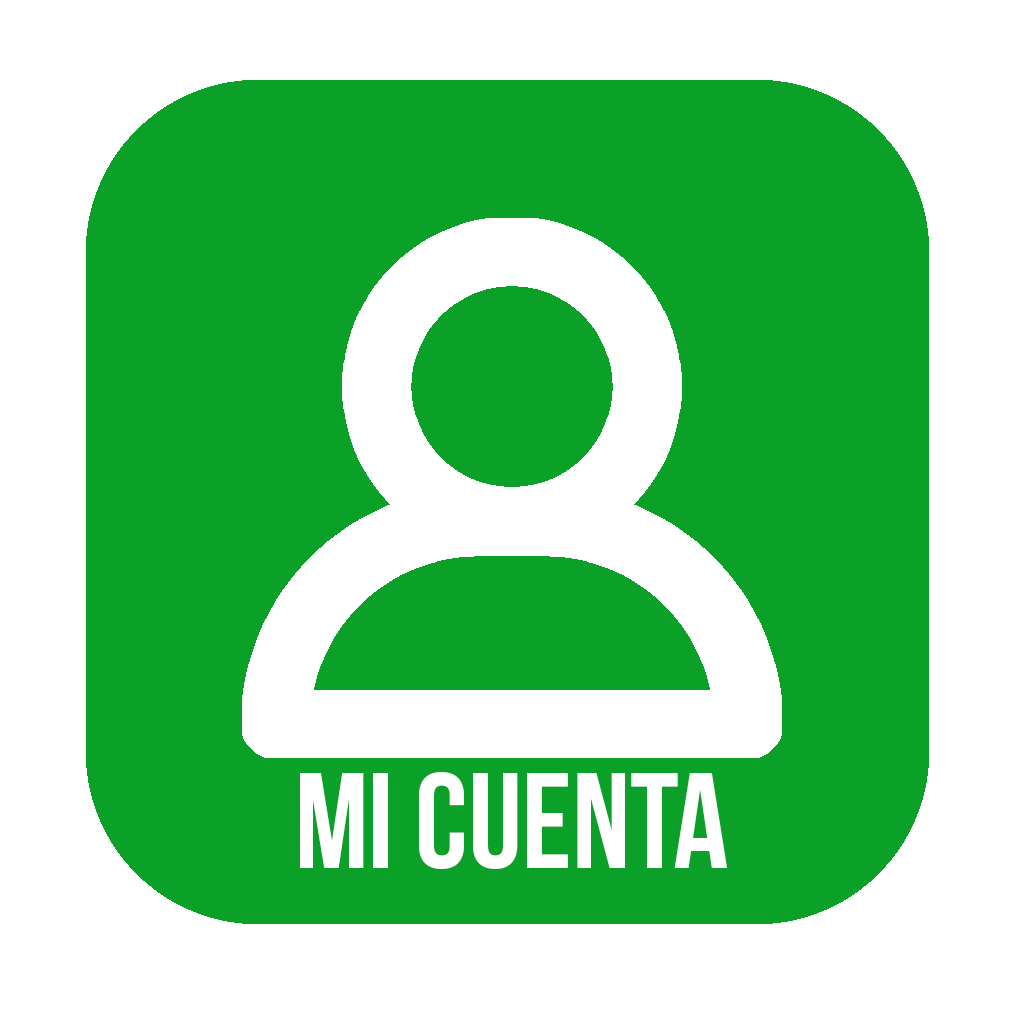
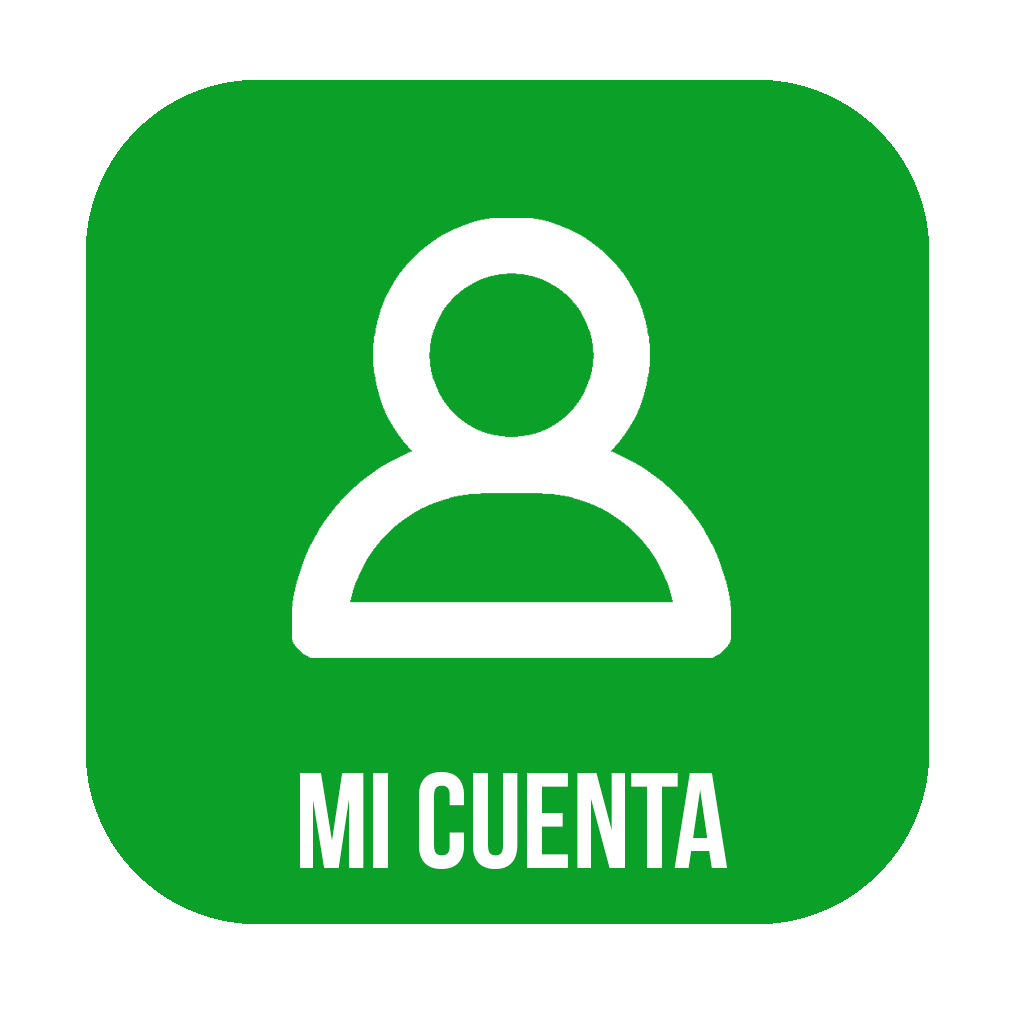
Cambios Varios
Se cambian los iconos,
Se agrega lista desplegable con info de API

diff --git a/fastmail_flutter/lib/src/pages/cotizadorPoBox_page.dart b/fastmail_flutter/lib/src/pages/cotizadorPoBox_page.dart
@@ -1,4 +1,7 @@
 import 'package:flutter/material.dart';
+import 'package:http/http.dart' as http;
+import 'dart:convert';
+import 'dart:async';
 
 class CotizadorPage extends StatefulWidget {
   @override
@@ -14,6 +17,7 @@ class __CotizadorPageState extends State<CotizadorPage> {
   void initState() {
     isPasswordVisible = false;
     isConfirmPasswordVisible = false;
+    loadarticulos(); //AQUI se carga la lista desplegable
     super.initState();
   }
 
@@ -28,32 +32,6 @@ class __CotizadorPageState extends State<CotizadorPage> {
         elevation: 0,
         //leading: Icon(Icons.menu),
         title: Text("Cotizador"),
-      ),
-      drawer: new Drawer(
-        child: new ListView(
-          padding: const EdgeInsets.all(0.0),
-          children: <Widget>[
-            new UserAccountsDrawerHeader(
-                accountName: new Text("Webyte"),
-                accountEmail: new Text("hola@webyte,com.gt"),
-                currentAccountPicture: new CircleAvatar(
-                  backgroundColor: Colors.red,
-                )),
-            new ListTile(
-              title: new Text('Mis Paquetes'),
-              trailing: new Icon(Icons.send),
-            ),
-            new ListTile(
-              title: new Text('Perfil'),
-              trailing: new Icon(Icons.person),
-            ),
-            new ListTile(
-              title: new Text('Versión'),
-              trailing: new Icon(Icons.close),
-              onTap: () => Navigator.of(context).pop(),
-            )
-          ],
-        ),
       ),
       body: SingleChildScrollView(
         child: Padding(
@@ -92,10 +70,6 @@ class __CotizadorPageState extends State<CotizadorPage> {
   }
 
   Widget getWidgetRegistrationCard() {
-    final FocusNode _passwordEmail = FocusNode();
-    final FocusNode _passwordFocus = FocusNode();
-    final FocusNode _passwordConfirmFocus = FocusNode();
-
     return Padding(
       padding: const EdgeInsets.only(left: 16.0, right: 16.0),
       child: Card(
@@ -117,7 +91,7 @@ class __CotizadorPageState extends State<CotizadorPage> {
                     'Cotizar',
                     style: TextStyle(fontSize: 18.0, color: Colors.black),
                   ),
-                ), // title: login
+                ),
                 _crearTipoArticulo(),
                 _crearValor(),
                 _crearPeso(),
@@ -132,23 +106,90 @@ class __CotizadorPageState extends State<CotizadorPage> {
   }
 
   Widget _crearTipoArticulo() {
+    //INICIO LISTA DESPLEGABLE
     return Container(
-      child: TextFormField(
-        //   controller: _textEditApellido,
-        // focusNode: _crearApellido,
-        keyboardType: TextInputType.text,
-        textInputAction: TextInputAction.next,
-        validator: _validateEmpty,
-        onFieldSubmitted: (String value) {
-          //  FocusScope.of(context).requestFocus(_passwordFocus);
-        },
-        decoration: InputDecoration(
-            labelText: 'Tipo de Artículo',
-            //prefixIcon: Icon(Icons.email),
-            icon: Icon(Icons.card_giftcard_outlined)),
+      padding: EdgeInsets.only(left: 15, right: 15, top: 5),
+      color: Colors.white,
+      child: Row(
+        mainAxisAlignment: MainAxisAlignment.spaceBetween,
+        children: <Widget>[
+          Expanded(
+            child: DropdownButtonHideUnderline(
+              child: ButtonTheme(
+                alignedDropdown: true,
+                child: DropdownButton<String>(
+                  isExpanded: true,
+                  value: _myState,
+                  icon: const Icon(Icons.arrow_downward),
+                  iconSize: 24,
+                  style: TextStyle(
+                    color: Colors.black54,
+                    fontSize: 16,
+                  ),
+                  hint: Text('Seleccionar tipo de artículo'),
+                  onChanged: (String newValue) {
+                    setState(() {
+                      _myState = newValue;
+                      loadarticulos();
+                      print(_myState);
+                    });
+                  },
+                  items: statesList?.map((item) {
+                        return new DropdownMenuItem(
+                          child: new Text(item['name']),
+                          value: item['id'].toString(),
+                        );
+                      })?.toList() ??
+                      [],
+                ),
+              ),
+            ),
+          ),
+        ],
       ),
-    ); //text field: email
+    );
+    //FIN LISTA DESPLEGABLE
   }
+
+  List statesList;
+  String _myState;
+
+  Future<String> loadarticulos() async {
+    var url = 'https://webyte.com.gt/projects/apps/fastmail/executequerys.php';
+    final response = await http.post(url,
+        headers: <String, String>{"Accept": "application/json"},
+        body: {"identificador": "ARTICULOS"});
+    //print(response.statusCode);
+    if (response.statusCode == 200) {
+      //print('resultValidLogin Response: ${response.body}');
+      dynamic data1 = jsonDecode(response.body);
+      //print(data1.toString());
+      setState(() {
+        statesList = data1;
+      });
+    } else {
+      //showAlertDialog(context, "¡Ocurrió un error al obtener datos!");
+      //throw Exception('Failed to get data');
+    }
+  }
+
+  // return Container(
+  //   child: TextFormField(
+  //     //   controller: _textEditApellido,
+  //     // focusNode: _crearApellido,
+  //     keyboardType: TextInputType.text,
+  //     textInputAction: TextInputAction.next,
+  //     validator: _validateEmpty,
+  //     onFieldSubmitted: (String value) {
+  //       //  FocusScope.of(context).requestFocus(_passwordFocus);
+  //     },
+  //     decoration: InputDecoration(
+  //         labelText: 'Tipo de Artículo',
+  //         //prefixIcon: Icon(Icons.email),
+  //         icon: Icon(Icons.card_giftcard_outlined)),
+  //   ),
+  // ); //text field: email
+  //}
 
   Widget _crearValor() {
     return Container(
@@ -222,7 +263,7 @@ class __CotizadorPageState extends State<CotizadorPage> {
         ),
         onPressed: () {
           // if (_keyValidationForm.currentState.validate()) {
-          _onTappedButtonRegister();
+          _onTappedButtonCotizar();
           //  }
         },
         shape:
@@ -254,5 +295,31 @@ class __CotizadorPageState extends State<CotizadorPage> {
     return value.length < 5 ? 'Min 5 char required' : null;
   }
 
-  void _onTappedButtonRegister() {}
+  Future<String> _onTappedButtonCotizar() async {
+    var url = 'https://webyte.com.gt/projects/apps/fastmail/executequerys.php';
+    final response = await http.post(url, headers: <String, String>{
+      "Accept": "application/json"
+    }, body: {
+      "identificador": "COTIZAR",
+      "codpais": "502",
+      "codarticulo": "1",
+      "articulo": "-",
+      "valor": "108",
+      "peso": "1",
+      "destino": "Ciudad Capital",
+      "tipocliente": "Fastmail"
+    });
+    //print(response.statusCode);
+    if (response.statusCode == 200) {
+      //print('resultValidLogin Response: ${response.body}');
+      dynamic data1 = jsonDecode(response.body);
+      print(data1.toString());
+      // setState(() {
+      //   statesList = data1;
+      // });
+    } else {
+      //showAlertDialog(context, "¡Ocurrió un error al obtener datos!");
+      //throw Exception('Failed to get data');
+    }
+  }
 }

diff --git a/fastmail_flutter/lib/src/pages/gridhome.dart b/fastmail_flutter/lib/src/pages/gridhome.dart
@@ -29,6 +29,9 @@ class _GridHomePageState extends State<GridHomePage> {
 
   @override
   Widget build(BuildContext context) {
+    final Map<String, Object> rcvdData =
+        ModalRoute.of(context).settings.arguments;
+
     return Scaffold(
       backgroundColor: Colors.white,
       appBar: AppBar(
@@ -44,21 +47,23 @@ class _GridHomePageState extends State<GridHomePage> {
           padding: const EdgeInsets.all(0.0),
           children: <Widget>[
             new UserAccountsDrawerHeader(
-                accountName: new Text("Webyte"),
-                accountEmail: new Text("hola@webyte,com.gt"),
-                currentAccountPicture: new CircleAvatar(
-                  backgroundColor: Colors.red,
-                )),
-            new ListTile(
-              title: new Text('Page One'),
-              trailing: new Icon(Icons.arrow_upward),
+              // backgroundColor:Colors.blue,
+              accountName: new Text(rcvdData['name']),
+              accountEmail: new Text(rcvdData['email']),
+              // currentAccountPicture: new CircleAvatar(
+              //   backgroundColor: Colors.red,
+              // )
             ),
             new ListTile(
-              title: new Text('Page two'),
-              trailing: new Icon(Icons.arrow_downward),
+              title: new Text('Perfil'),
+              trailing: new Icon(Icons.person),
             ),
             new ListTile(
-              title: new Text('Page Close'),
+              title: new Text('Contáctanos'),
+              trailing: new Icon(Icons.mail),
+            ),
+            new ListTile(
+              title: new Text('Salir'),
               trailing: new Icon(Icons.close),
               onTap: () => Navigator.of(context).pop(),
             )

diff --git a/fastmail_flutter/lib/src/pages/login_page.dart b/fastmail_flutter/lib/src/pages/login_page.dart
@@ -7,6 +7,8 @@ import 'package:http/http.dart' as http;
 import 'dart:convert';
 import 'dart:async';
 
+final GlobalKey<ScaffoldState> _scaffoldKey = new GlobalKey<ScaffoldState>();
+
 Future<String> loginn(
     BuildContext context, String coduser, String passw) async {
   var url = 'https://webyte.com.gt/projects/apps/fastmail/login/login.php';
@@ -22,9 +24,13 @@ Future<String> loginn(
       /*showAlertDialog(
             context, "¡" + (data1['message']).replaceAll("#", "ñ") + "!");*/
     } else {
+      var gName = data1['nombres'];
+      var gEmail = data1['email'];
       if (data1['tipousuario'] == 'CLIENTE') {
         //Navigator.pushReplacementNamed(context, '/empleados');
-        Navigator.pushReplacementNamed(context, 'homegrid');
+        Navigator.pushReplacementNamed(context, "homegrid",
+            arguments: {"name": gName, "email": gEmail});
+        //Navigator.pushReplacementNamed(context, 'homegrid');
       } else if (data1['tipousuario'] == 'ADMIN') {
         //Navigator.pushReplacementNamed(context, '/page_mainclientes');
       }
@@ -116,6 +122,7 @@ class LoginPage extends StatelessWidget {
             onPressed: snapshot.hasData
                 ? () => {
                       //ModelLogin modelLogin = ModelLogin(pais: "502",codigo: "53808",contrasena: "1234");
+                      //  loadanimation(),
                       loginn(context, bloc.usuario, bloc.password)
                     } //Navigator.pushReplacementNamed(context, 'homegrid')
                 : null);
